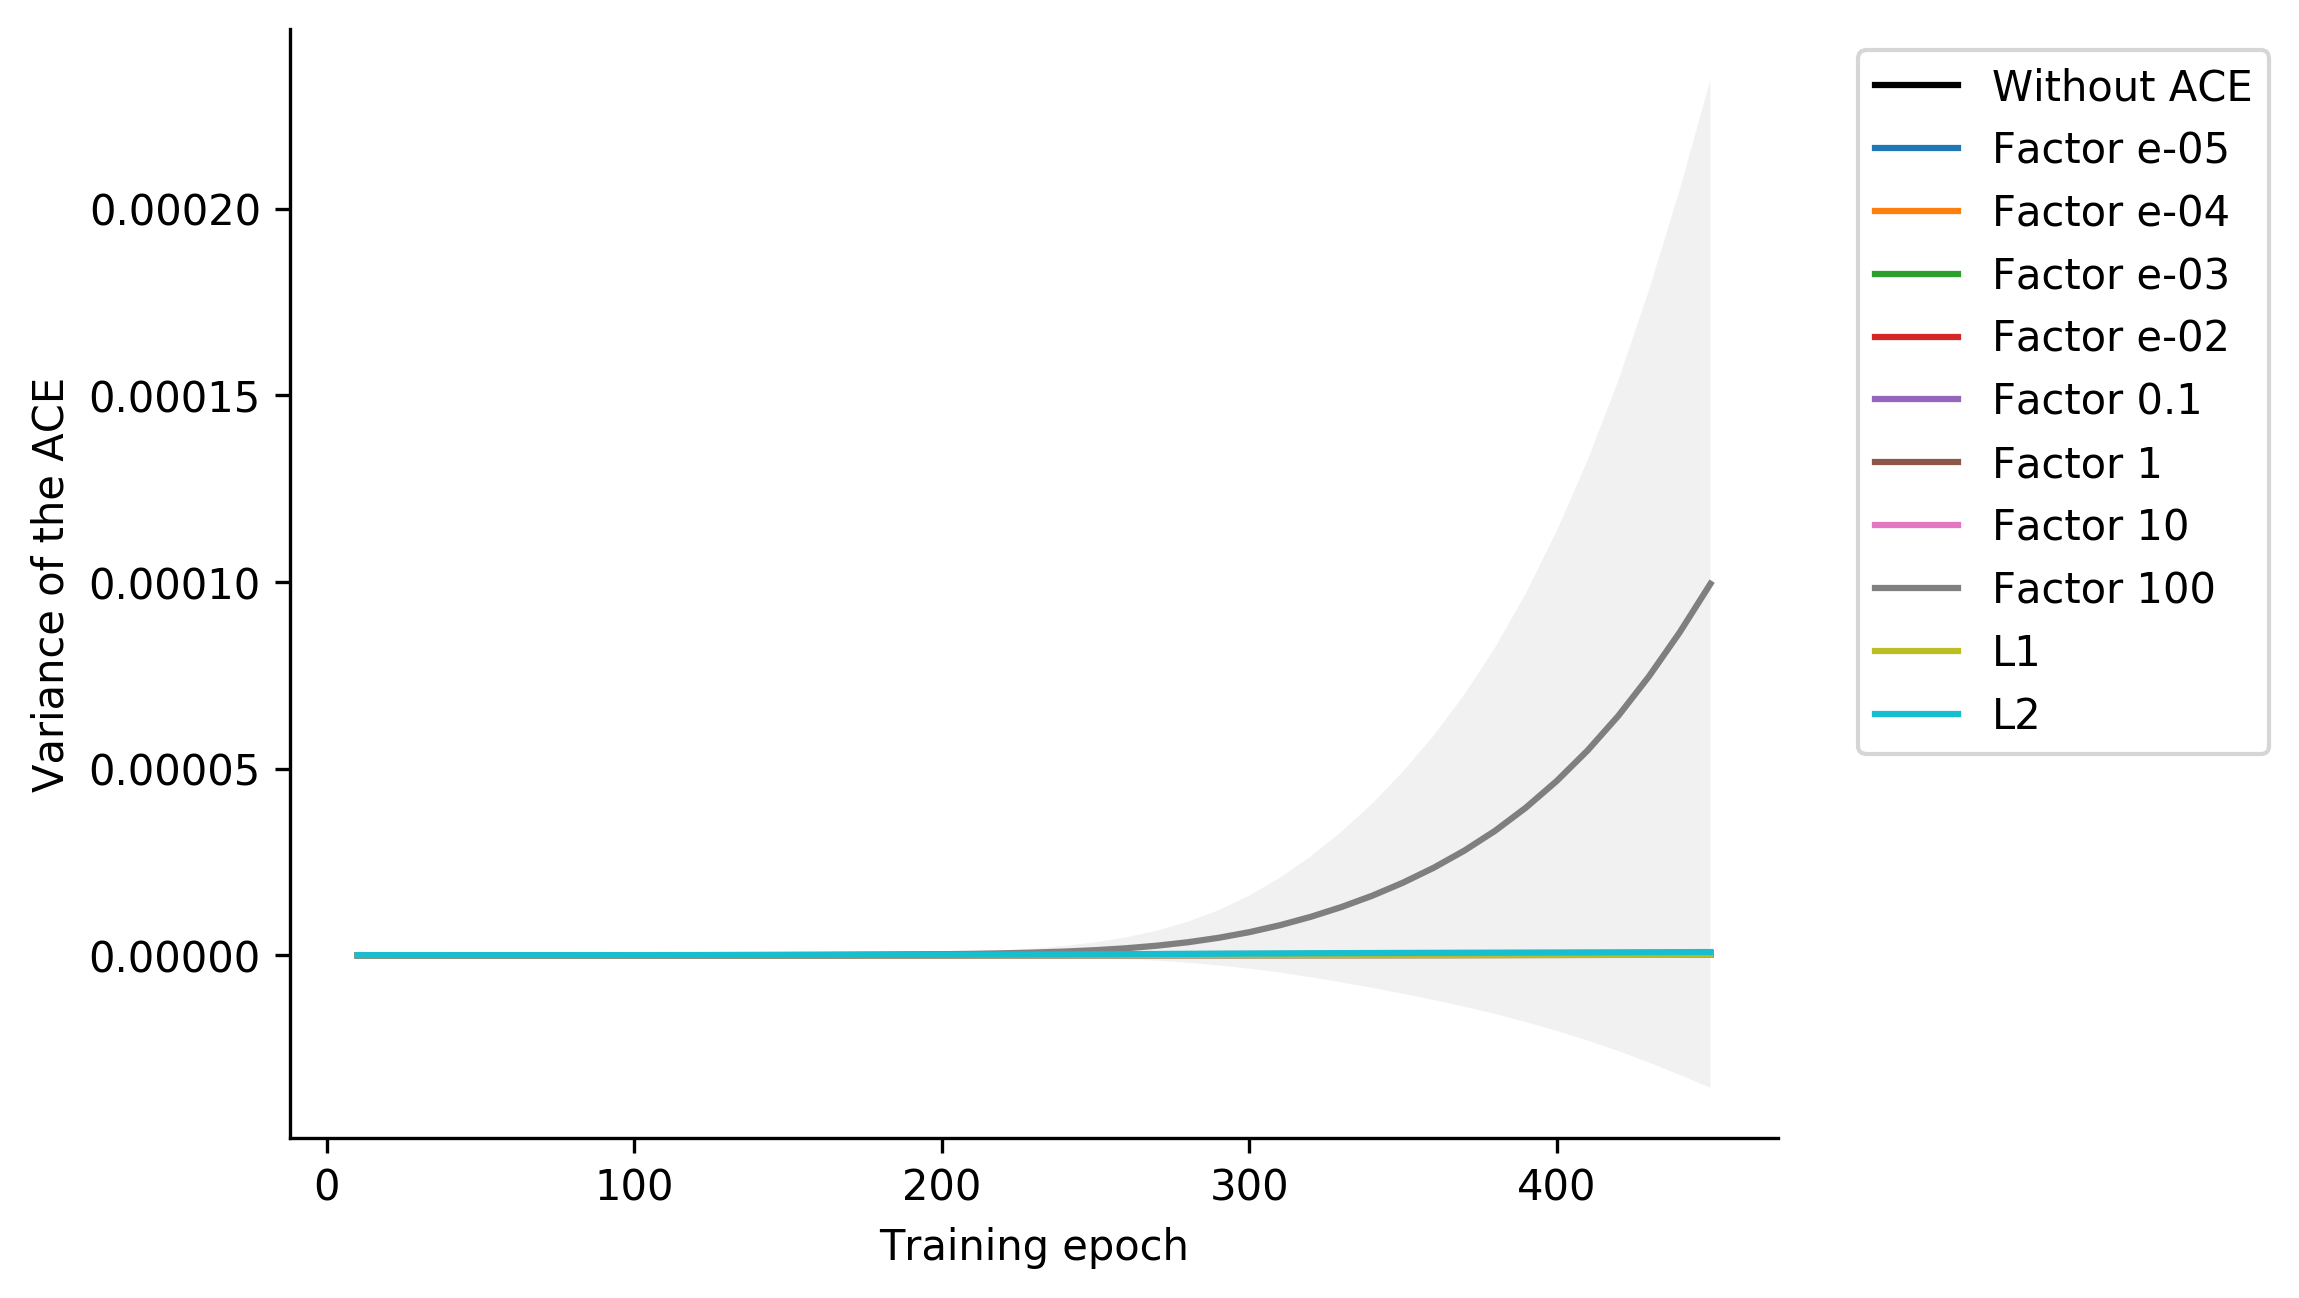
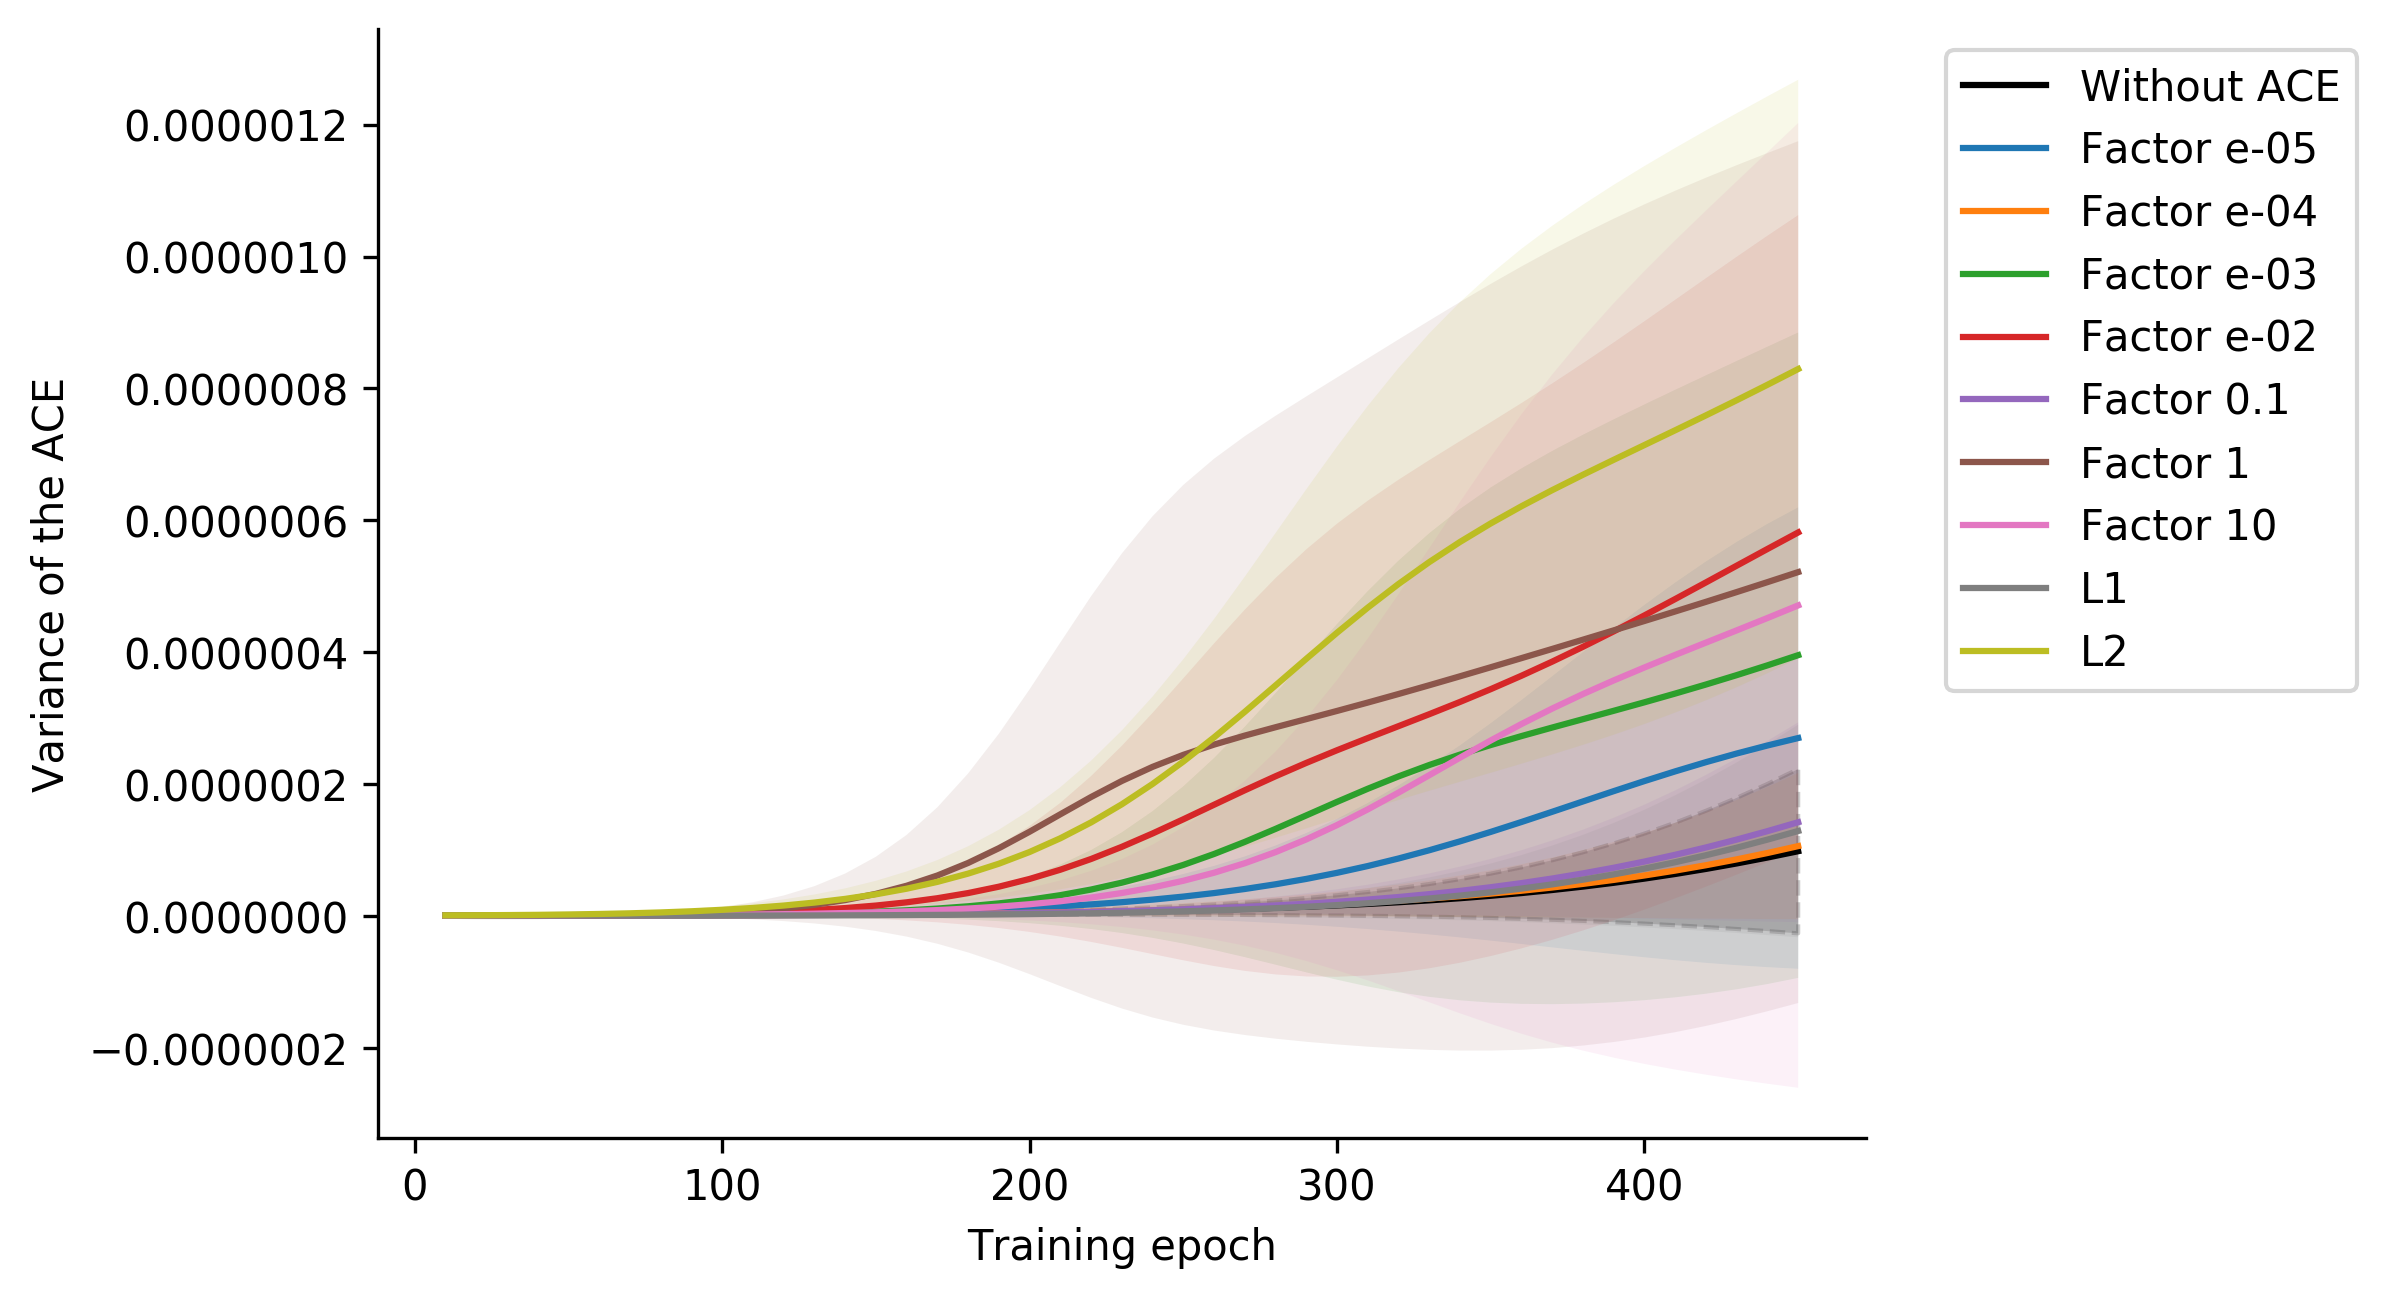
plots

diff --git a/Project/plotting_results.py b/Project/plotting_results.py
@@ -3942,8 +3942,8 @@ plt.fill_between(x_axis, np.mean(varianz_ACE_1_433, axis=0)-np.std(varianz_ACE_1
 plt.plot(x_axis, np.mean(varianz_ACE_10_433, axis=0), label="Factor 10")
 plt.fill_between(x_axis, np.mean(varianz_ACE_10_433, axis=0)-np.std(varianz_ACE_10_433, axis=0), np.mean(varianz_ACE_10_433, axis=0)+np.std(varianz_ACE_10_433, axis=0),  alpha=0.1)
 
-#plt.plot(x_axis, np.mean(varianz_ACE_100_433, axis=0), label="Factor 100")
-#plt.fill_between(x_axis, np.mean(varianz_ACE_100_433, axis=0)-np.std(varianz_ACE_100_433, axis=0), np.mean(varianz_ACE_100_433, axis=0)+np.std(varianz_ACE_100_433, axis=0),  alpha=0.1)
+plt.plot(x_axis, np.mean(varianz_ACE_100_433, axis=0), label="Factor 100")
+plt.fill_between(x_axis, np.mean(varianz_ACE_100_433, axis=0)-np.std(varianz_ACE_100_433, axis=0), np.mean(varianz_ACE_100_433, axis=0)+np.std(varianz_ACE_100_433, axis=0),  alpha=0.1)
 
 plt.plot(x_axis, np.mean(varianz_ACE_L1_433, axis=0), label="L1")
 plt.fill_between(x_axis, np.mean(varianz_ACE_L1_433, axis=0)-np.std(varianz_ACE_L1_433, axis=0), np.mean(varianz_ACE_L1_433, axis=0)+np.std(varianz_ACE_L1_433, axis=0),  alpha=0.1)
